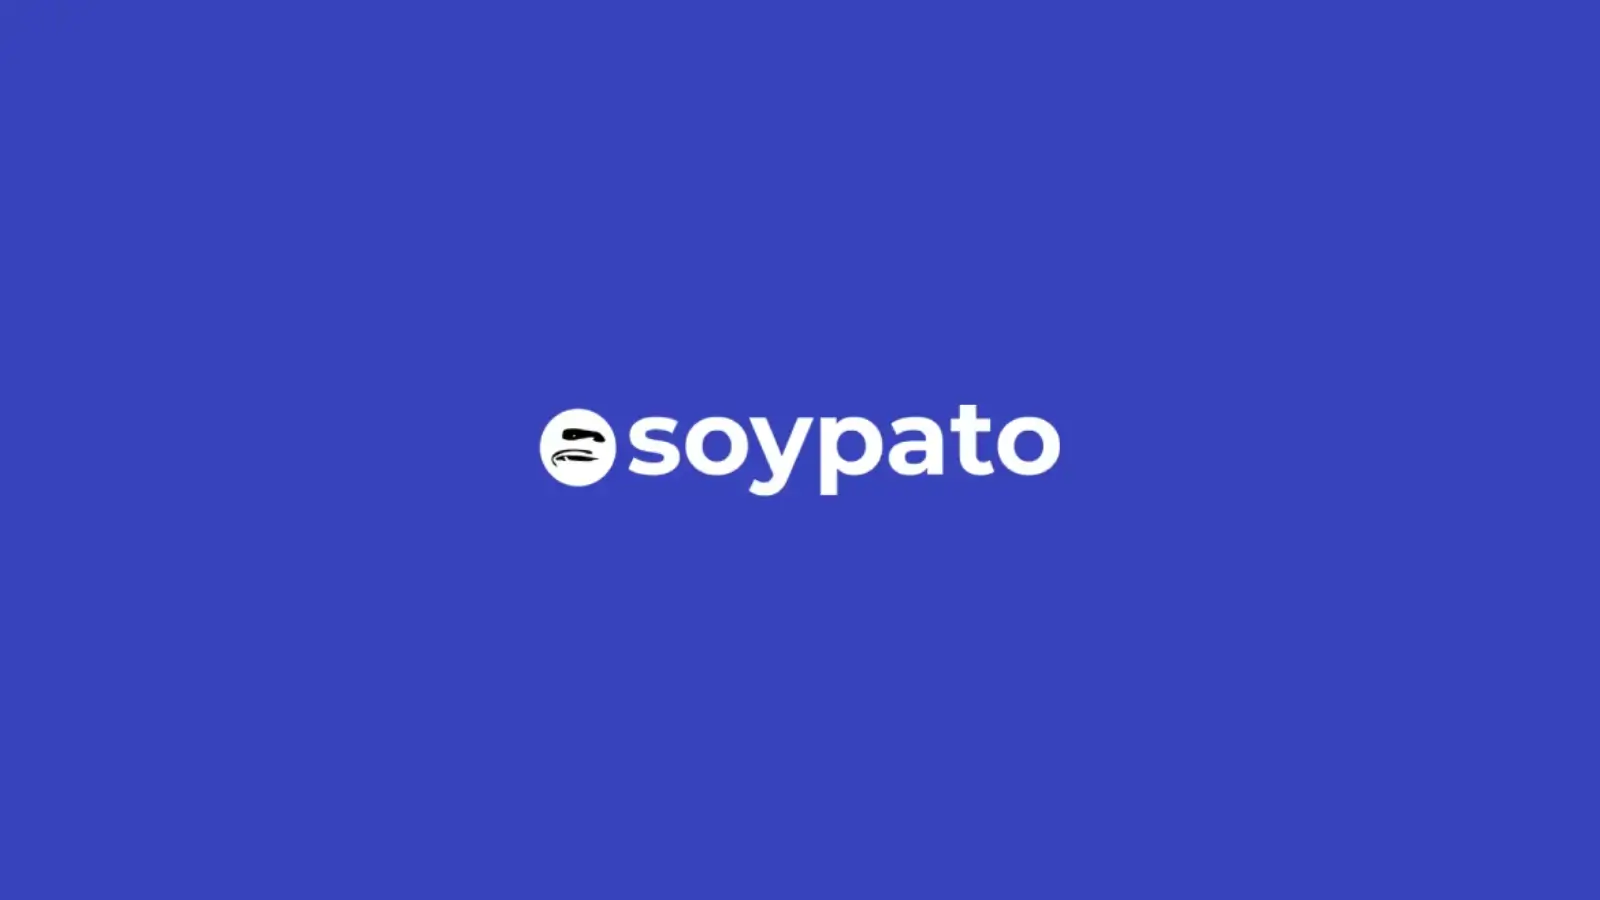
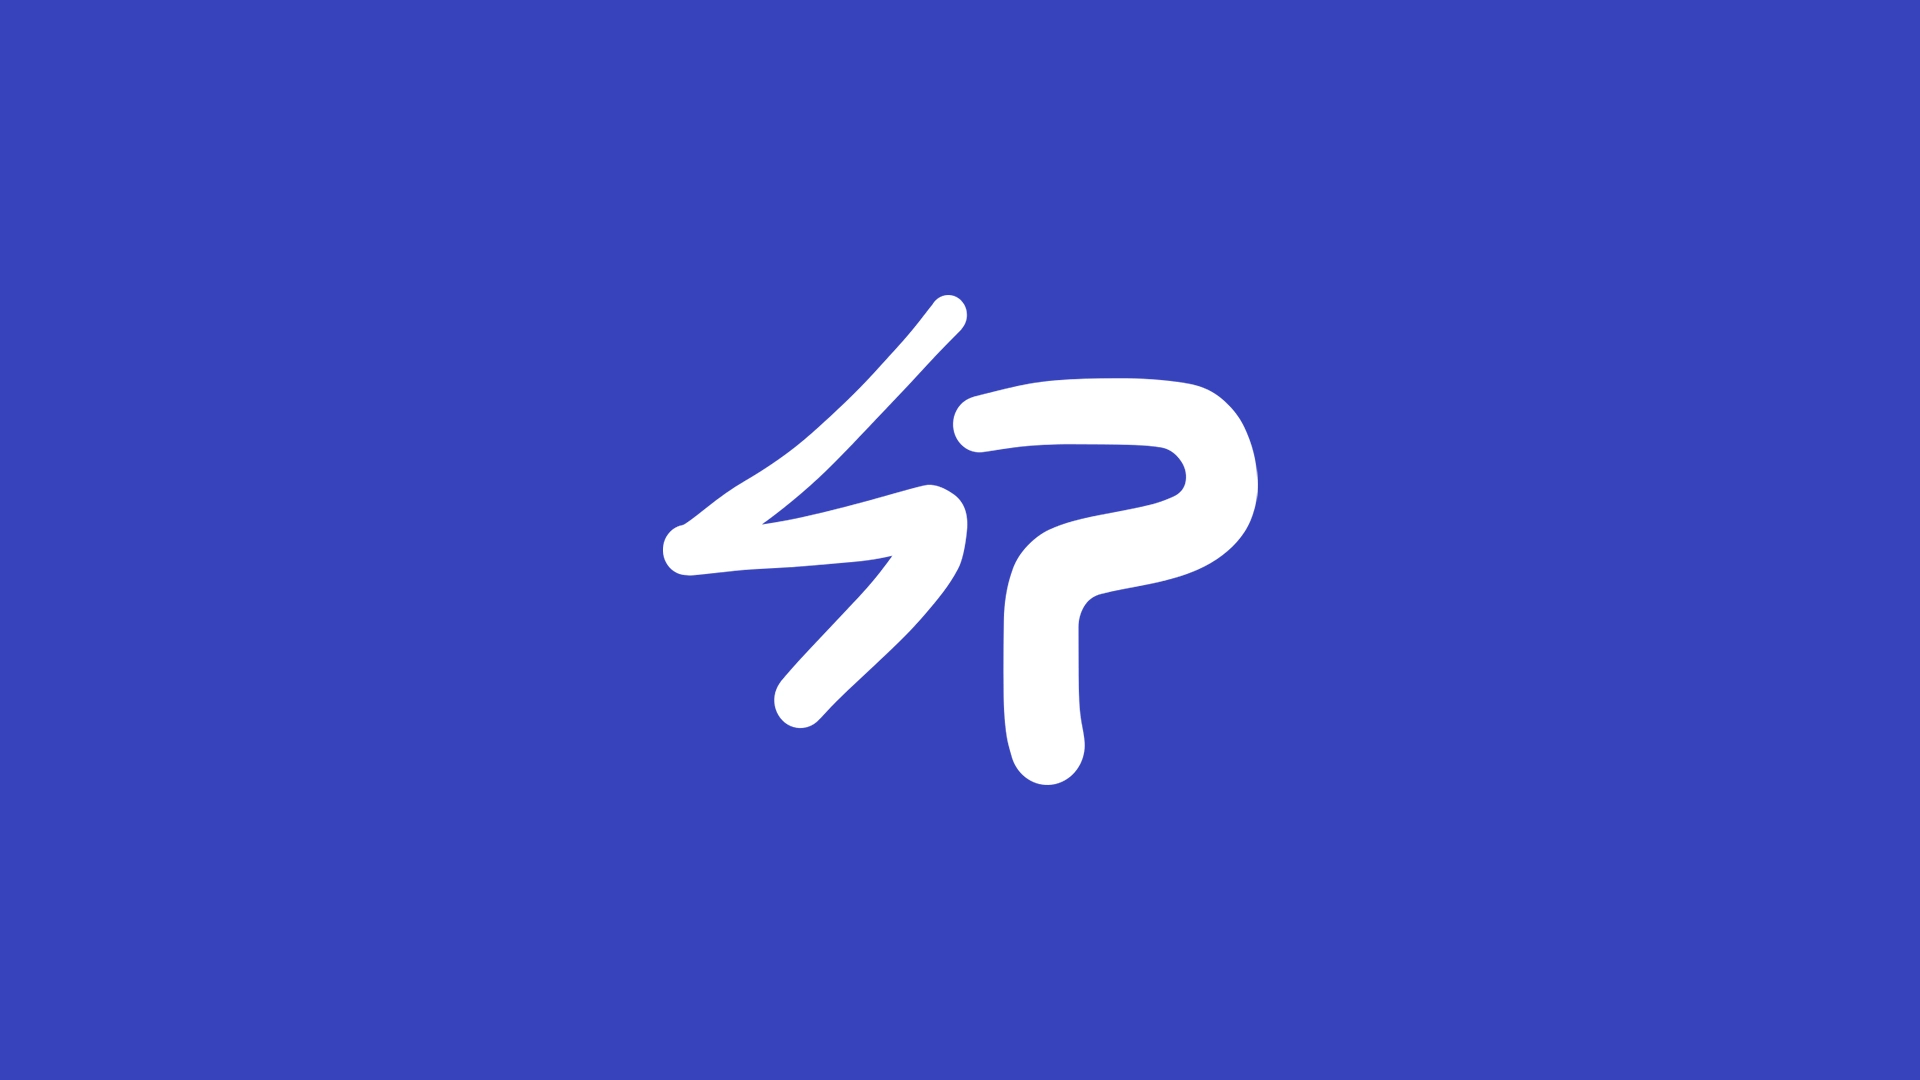
add rebrand isologo

Changed region(s): [[0.3125, 0.28, 0.6875, 0.7467]]

diff --git a/404.html b/404.html
@@ -4,7 +4,7 @@
       <meta charset="UTF-8">
       <meta http-equiv="X-UA-Compatible" content="IE=edge">
       <meta name="viewport" content="width=device-width, initial-scale=1.0">
-      <link rel="icon" type="image/png" href="https://i.postimg.cc/KvZXTrrb/logo-soypato-small.png">      
+      <link rel="icon" type="image/png" href="img/favicon.webp">      
       <link rel="preconnect" href="https://fonts.googleapis.com">
       <link rel="preconnect" href="https://fonts.gstatic.com" crossorigin>
       <link href="https://fonts.googleapis.com/css2?family=Montserrat:wght@400;500;700&display=swap" rel="stylesheet">       

diff --git a/index.html b/index.html
@@ -4,7 +4,7 @@
       <meta charset="UTF-8">
       <meta http-equiv="X-UA-Compatible" content="IE=edge">
       <meta name="viewport" content="width=device-width, initial-scale=1.0">
-      <link rel="icon" type="image/png" href="https://i.postimg.cc/KvZXTrrb/logo-soypato-small.png">      
+      <link rel="icon" type="image/png" href="img/favicon.webp">      
       <link rel="preconnect" href="https://fonts.googleapis.com">
       <link rel="preconnect" href="https://fonts.gstatic.com" crossorigin>
       <link href="https://fonts.googleapis.com/css2?family=Montserrat:wght@400;500;700&display=swap" rel="stylesheet">       
